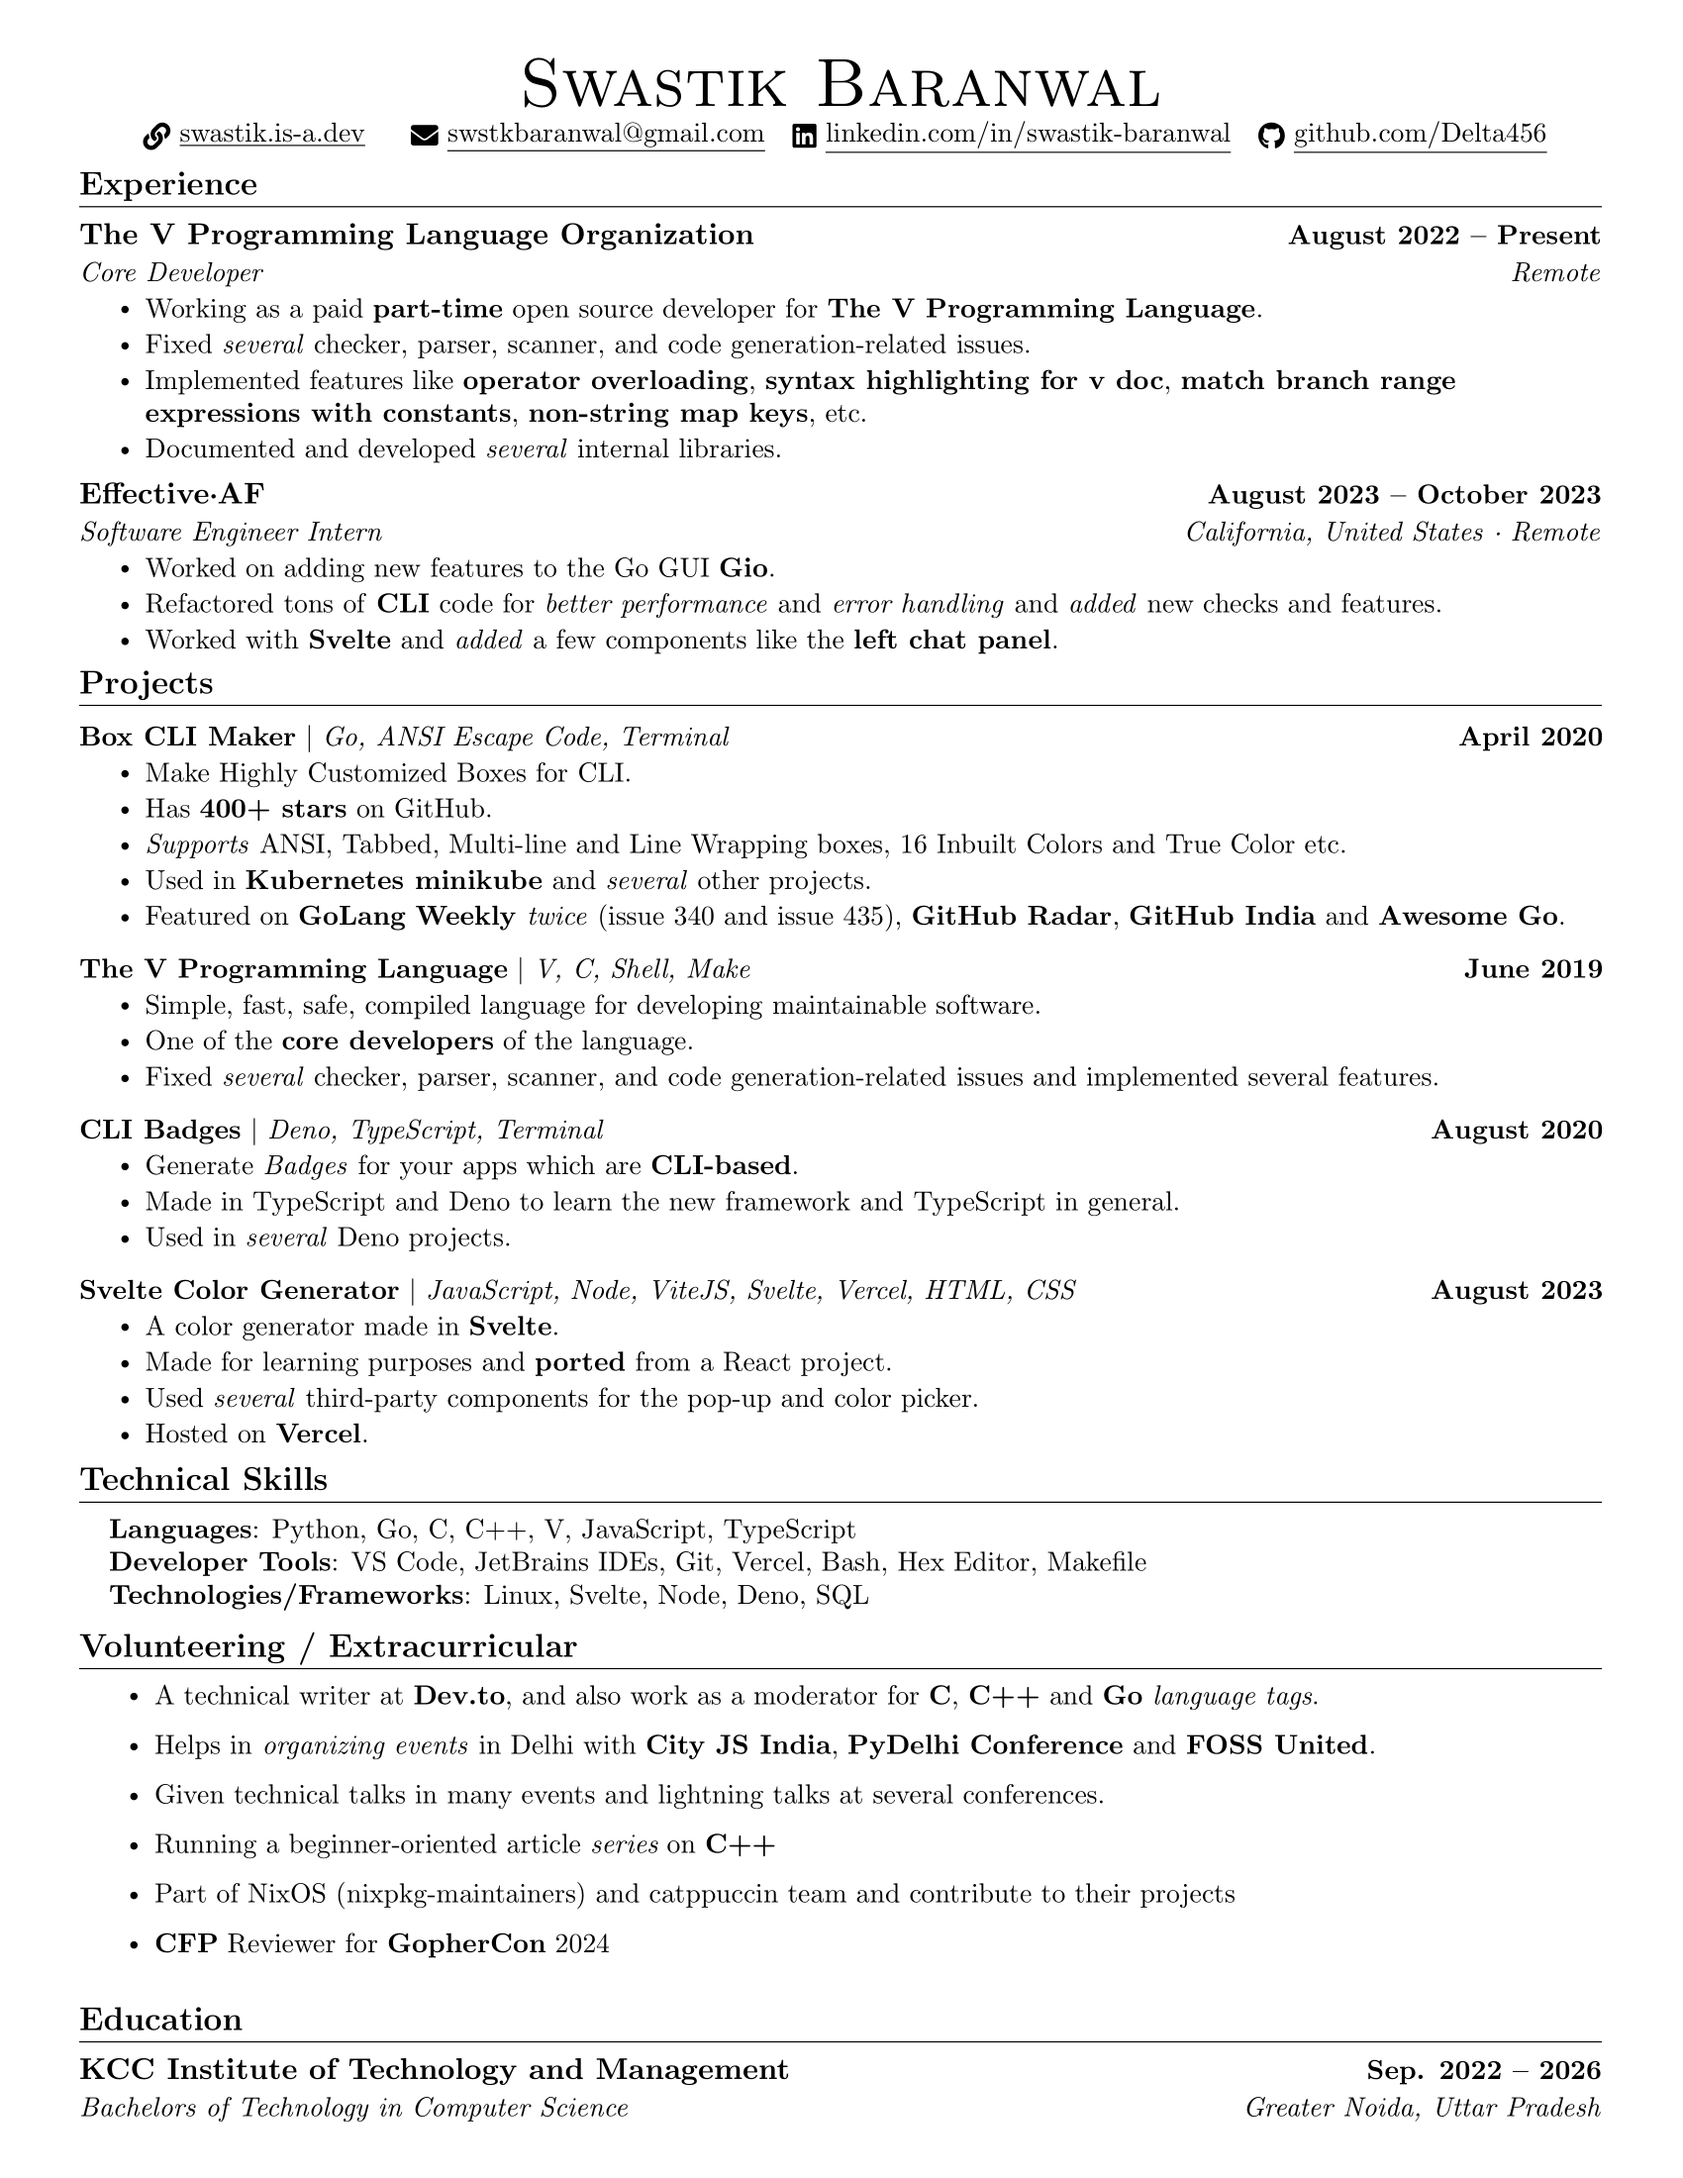
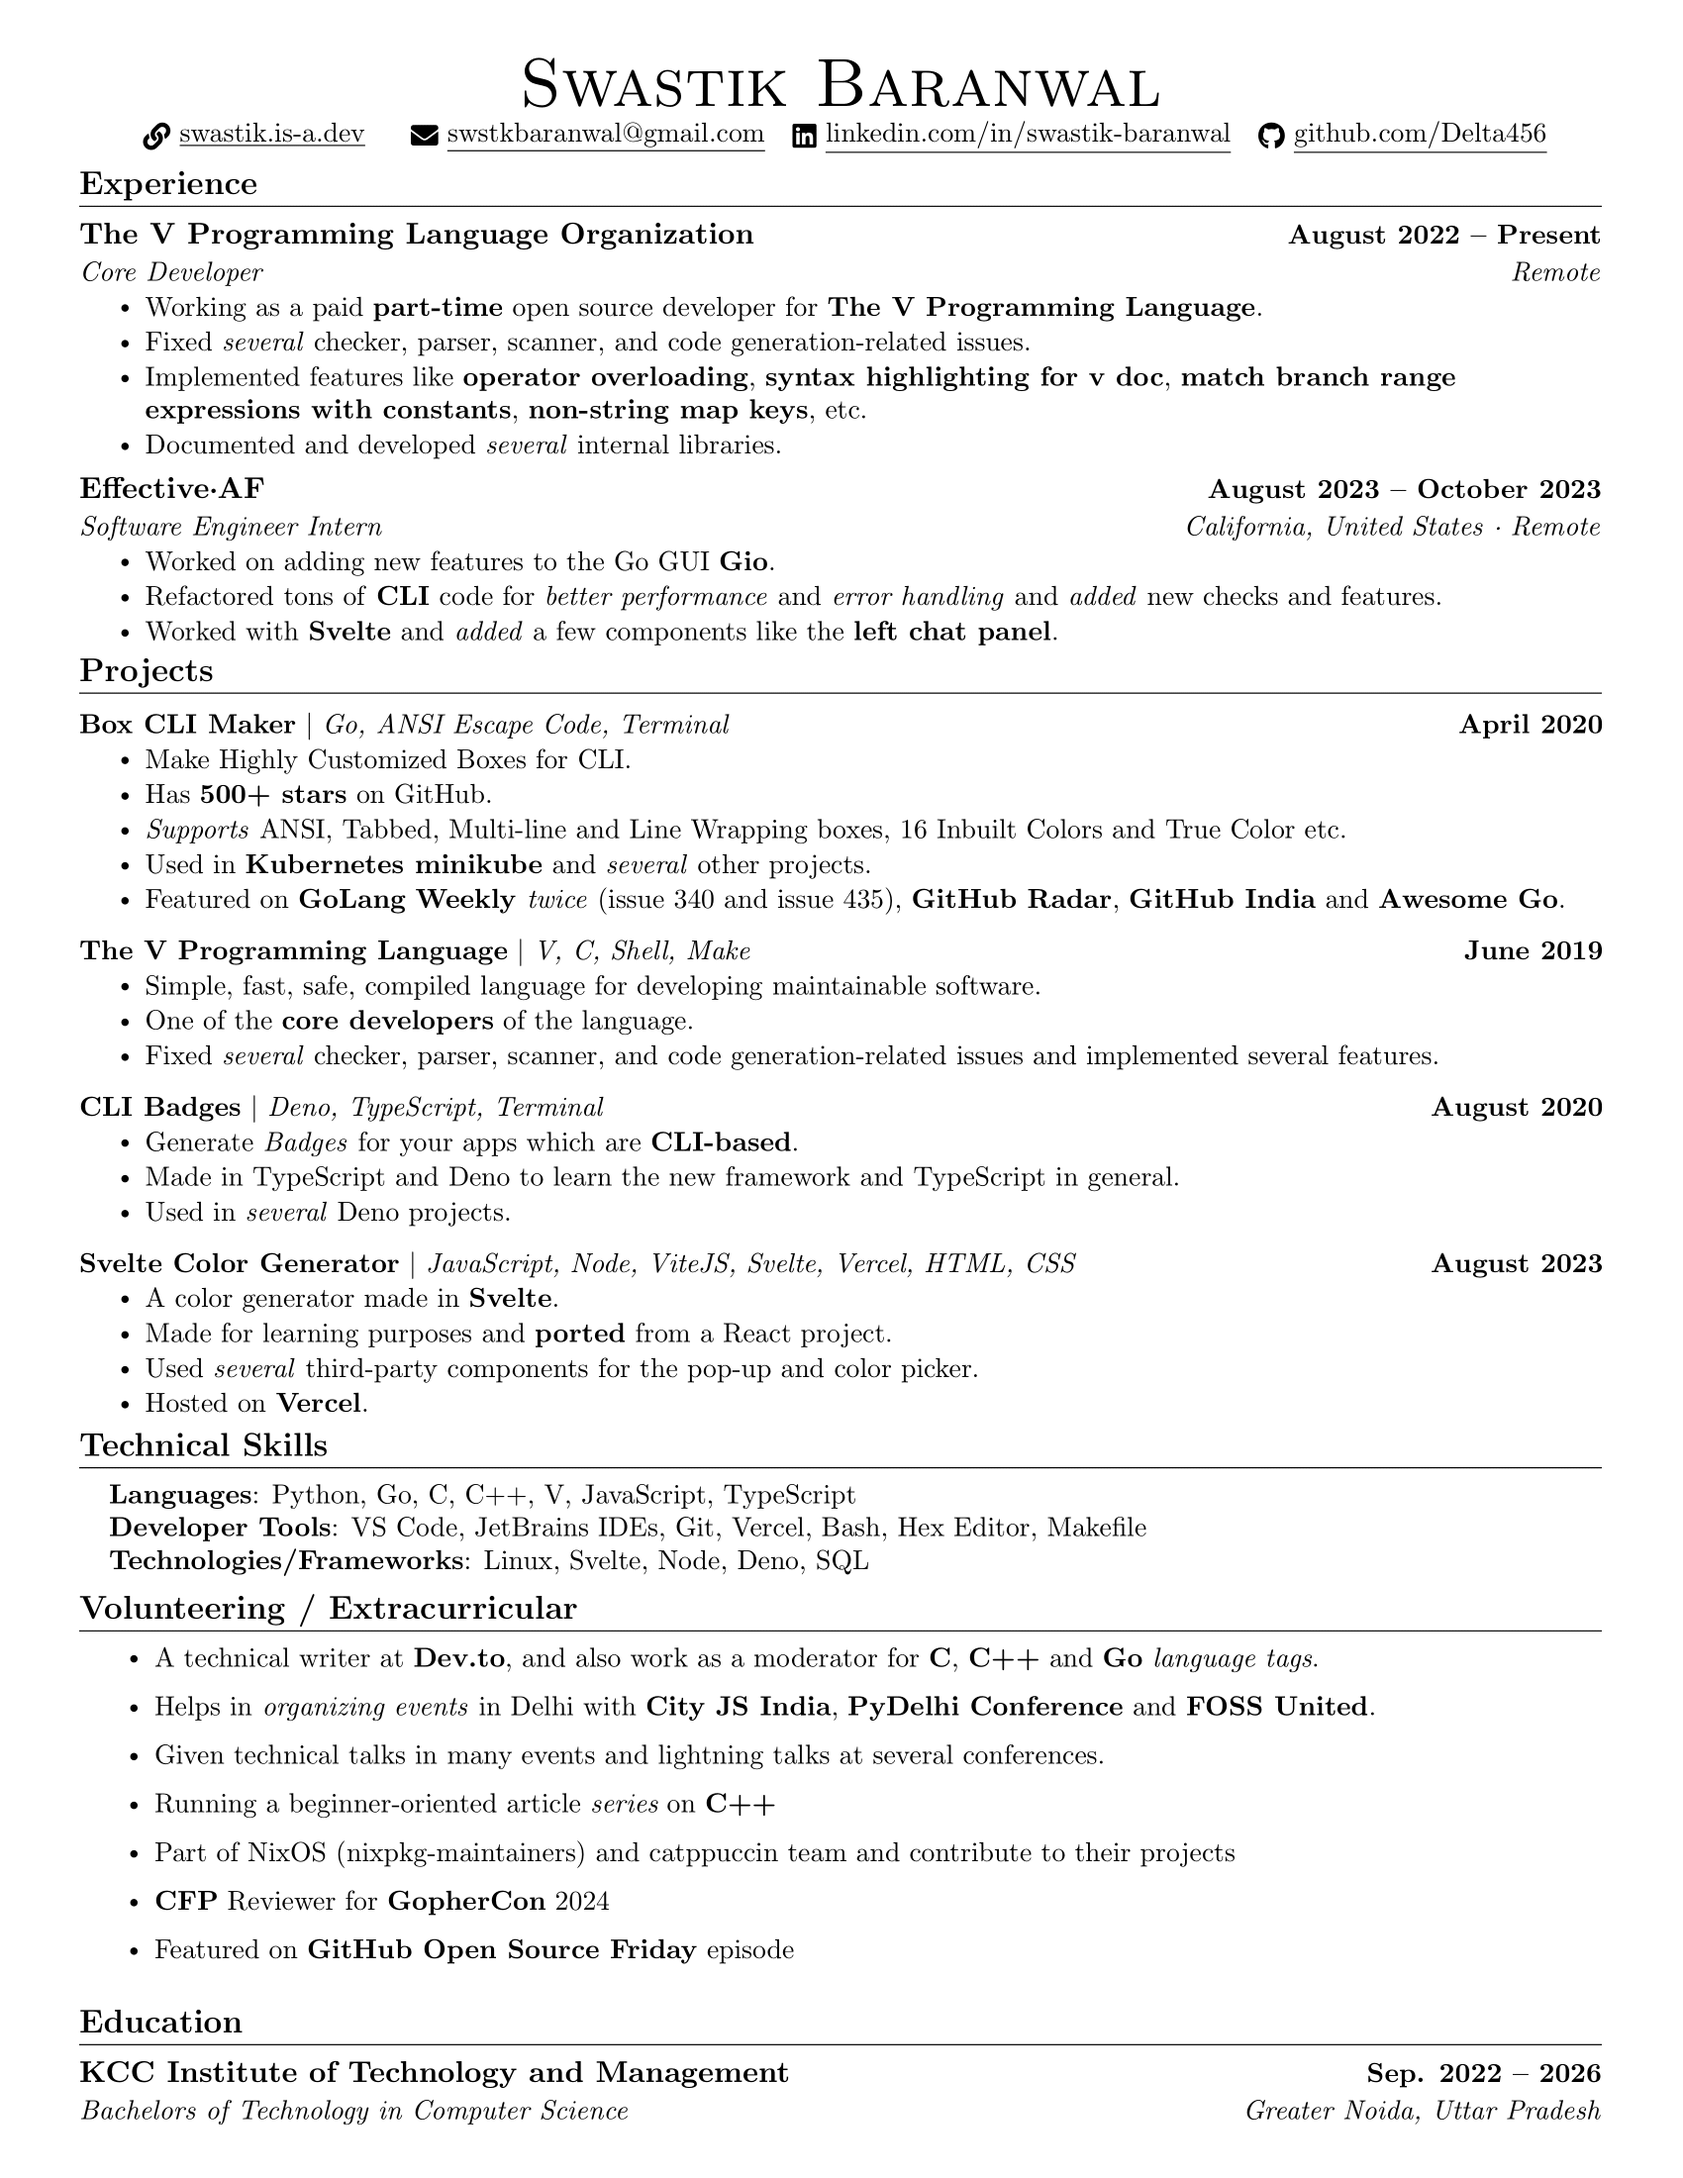
all: update resume

diff --git a/resume.tex b/resume.tex
@@ -1,6 +1,6 @@
 %-------------------------
 % Resume in Latex
-% Original Author : Jake Gutierrez
+% Author : Jake Gutierrez
 % Based off of: https://github.com/sb2nov/resume
 % License : MIT
 %------------------------
@@ -165,7 +165,7 @@
           {\textbf{\href{https://github.com/Delta456/box-cli-maker}{Box CLI Maker}} $|$ \emph{Go, ANSI Escape Code, Terminal}}{April 2020}
           \resumeItemListStart
             \resumeItem{Make Highly Customized Boxes for CLI.}
-            \resumeItem{Has \textbf{400+ stars} on GitHub.}
+            \resumeItem{Has \textbf{500+ stars} on GitHub.}
             \resumeItem{\textit{Supports} ANSI, Tabbed, Multi-line and Line Wrapping boxes, 16 Inbuilt Colors and True Color etc.}
             \resumeItem{Used in \textbf{Kubernetes \href{https://github.com/kubernetes/minikube}{minikube}} and \textit{several} other projects.}
             \resumeItem{Featured on \href{https://golangweekly.com/}{\textbf{GoLang} \textbf{Weekly}}\textit{ twice} (\href{https://golangweekly.com/issues/340}{issue 340} and \href{https://golangweekly.com/issues/435}{issue 435}), \href{https://github.blog/2022-12-16-release-radar-nov-2022/}{\textbf{GitHub Radar}}, \href{https://githubindia.com/open-source/projects}{\textbf{GitHub India}} and \href{https://awesome-go.com/}{\textbf{Awesome Go}}.}
@@ -219,6 +219,7 @@
                 \resumeItem{Running a beginner-oriented article \textit{\href{https://github.com/Delta456/modern_cpp_series}{series}} on \textbf{C++}}
                 \resumeItem{Part of NixOS (nixpkg-maintainers) and catppuccin team and contribute to their projects }
                 \resumeItem{\textbf{CFP} Reviewer for \textbf{GopherCon} 2024}
+                \resumeItem{Featured on \textbf{\href{https://www.youtube.com/watch?v=gs8FFp0rAbk}{GitHub Open Source Friday}} episode}
             \resumeItemListEnd
 
             

diff --git a/README.md b/README.md
@@ -4,6 +4,6 @@ My Technical Resume based on the template of [Sourabh Bajaj Resume](https://gith
 
 Made with LaTeX and Overleaf.
 
-Updated as per April 22nd 2024.
+Updated as per June 12th 2024.
 
 ![resume](./resume.png)
